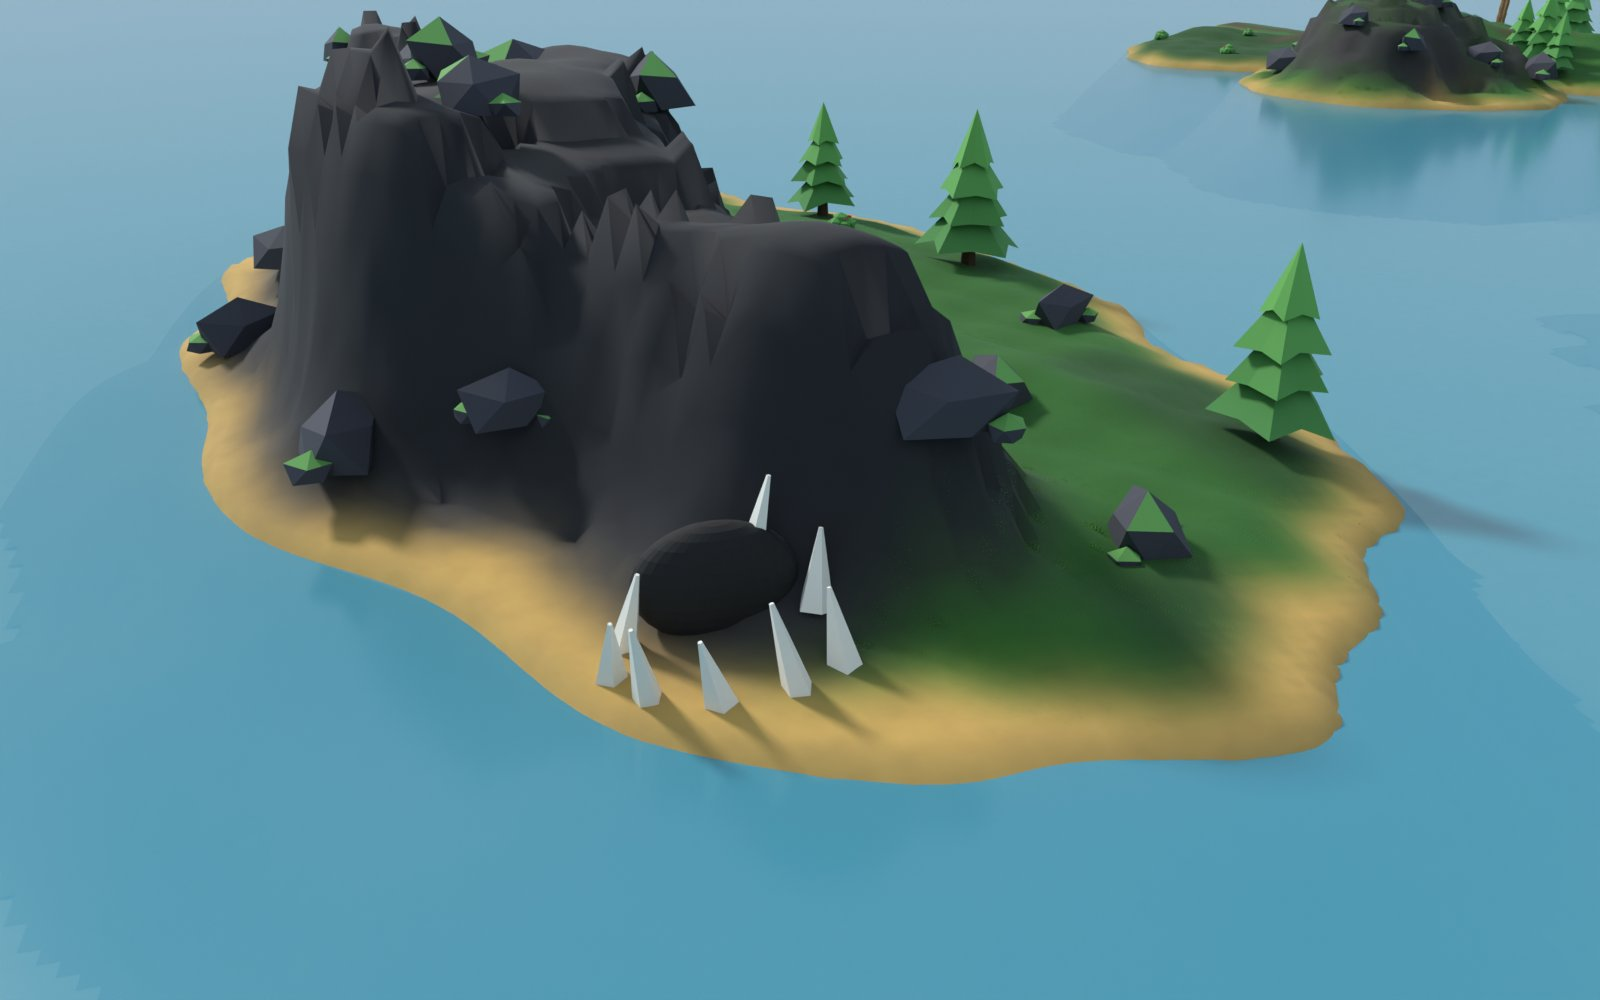
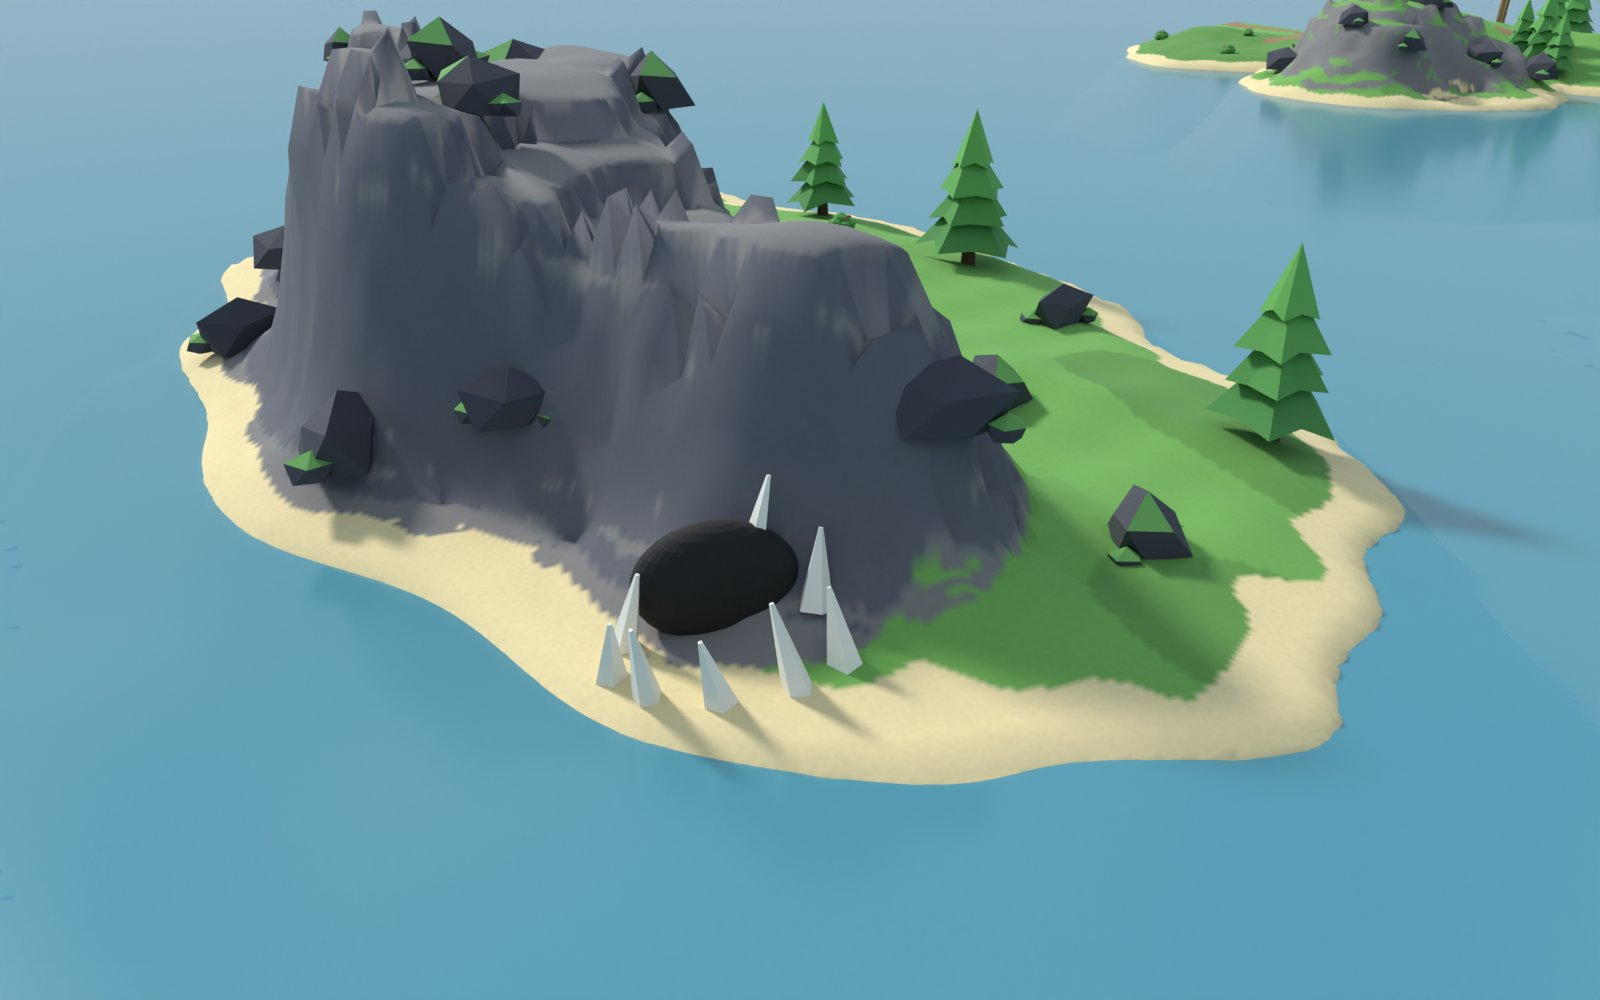
Map previews: clean material edges instead of smeared blending
Material colours now come from a sub-voxel colour map that follows the
noisy edges in the material functions, rather than blurred vertex colours,
and the large-scale colour noise that made dark blotches is gone.

Claude-Session: https://claude.ai/code/session_01CM2U5WtgqENptg3yY2JkFr

diff --git a/docs/previews/map/scene.py b/docs/previews/map/scene.py
@@ -23,9 +23,9 @@ def lin(c): return tuple((((v/255)+0.055)/1.055)**2.4 for v in c)
 tm=bpy.data.materials.new('Terrain'); tm.use_nodes=True; nt=tm.node_tree
 bs=nt.nodes['Principled BSDF']; bs.inputs['Roughness'].default_value=0.9
 ca=nt.nodes.new('ShaderNodeVertexColor'); ca.layer_name='Col'
-nz=nt.nodes.new('ShaderNodeTexNoise'); nz.inputs['Scale'].default_value=0.35; nz.inputs['Detail'].default_value=6
+nz=nt.nodes.new('ShaderNodeTexNoise'); nz.inputs['Scale'].default_value=1.6; nz.inputs['Detail'].default_value=4
 tc=nt.nodes.new('ShaderNodeTexCoord'); nt.links.new(tc.outputs['Object'],nz.inputs['Vector'])
-mr=nt.nodes.new('ShaderNodeMapRange'); mr.inputs['To Min'].default_value=0.82; mr.inputs['To Max'].default_value=1.12
+mr=nt.nodes.new('ShaderNodeMapRange'); mr.inputs['To Min'].default_value=0.9; mr.inputs['To Max'].default_value=1.07
 nt.links.new(nz.outputs['Fac'],mr.inputs['Value'])
 mx=nt.nodes.new('ShaderNodeMix'); mx.data_type='RGBA'; mx.blend_type='MULTIPLY'; mx.inputs['Factor'].default_value=1
 nt.links.new(ca.outputs['Color'],mx.inputs['A'])
@@ -48,7 +48,7 @@ for isl,cx,cz in ISL:
             m='Seabed' if h<0 else isl.material(x0+i*STEP,z0+j*STEP,h,sl)
             C[j][i]=lin(MATS[m]); G[j][i]=1.0 if m in ('Grass','LeafyGrass') else 0.0
     # blend: two passes of a 3x3 average, roughly the width Roblox blends over
-    for _ in range(2):
+    for _ in range(int(os.environ.get('BLUR','0'))):
         N=[[None]*nx for _ in range(nz_)]; NG=[[0]*nx for _ in range(nz_)]
         for j in range(nz_):
             for i in range(nx):
@@ -70,7 +70,31 @@ for isl,cx,cz in ISL:
             f=bm.faces.new((V[j][i],V[j][i+1],V[j+1][i+1],V[j+1][i])); f.smooth=True
             for lp,(jj,ii) in zip(f.loops,((j,i),(j,i+1),(j+1,i+1),(j+1,i))):
                 lp[col]=(*C[jj][ii],1)
+    uvl=bm.loops.layers.uv.new('UV')
+    for f in bm.faces:
+        for lp in f.loops:
+            co=lp.vert.co; lp[uvl].uv=((co.x-cx-x0)/(x1-x0),((-co.y)-cz-z0)/(z1-z0))
     bm.to_mesh(me); bm.free()
+    # Material colour map at sub-voxel resolution, so borders follow the noisy
+    # edges in the material function instead of the mesh grid.
+    RES=float(os.environ.get('TEXRES','0.6'))
+    iw,ih=int((x1-x0)/RES)+1,int((z1-z0)/RES)+1
+    px=[0.0]*(iw*ih*4)
+    for j in range(ih):
+        z=z0+j*RES
+        for i in range(iw):
+            x=x0+i*RES; h=isl.height(x,z)
+            if h<-25.5: c=lin(MATS['Seabed'])
+            else:
+                sl=max(abs(isl.height(x+1,z)-isl.height(x-1,z)),abs(isl.height(x,z+1)-isl.height(x,z-1)))/2
+                c=lin(MATS['Seabed' if h<0 else isl.material(x,z,h,sl)])
+            k=(j*iw+i)*4; px[k]=c[0]; px[k+1]=c[1]; px[k+2]=c[2]; px[k+3]=1
+    im=bpy.data.images.new(isl.name+'Mat',iw,ih,float_buffer=True); im.colorspace_settings.name='Non-Color'
+    im.pixels.foreach_set(px)
+    mi=tm.copy(); me.materials[0]=mi
+    it=mi.node_tree.nodes.new('ShaderNodeTexImage'); it.image=im; it.interpolation='Linear'; it.extension='EXTEND'
+    mix=[n for n in mi.node_tree.nodes if n.type=='MIX'][0]
+    mi.node_tree.links.new(it.outputs['Color'],mix.inputs['A'])
     if isl.name in GRASS:
         vg=ob.vertex_groups.new(name='grass')
         for j in range(nz_):
